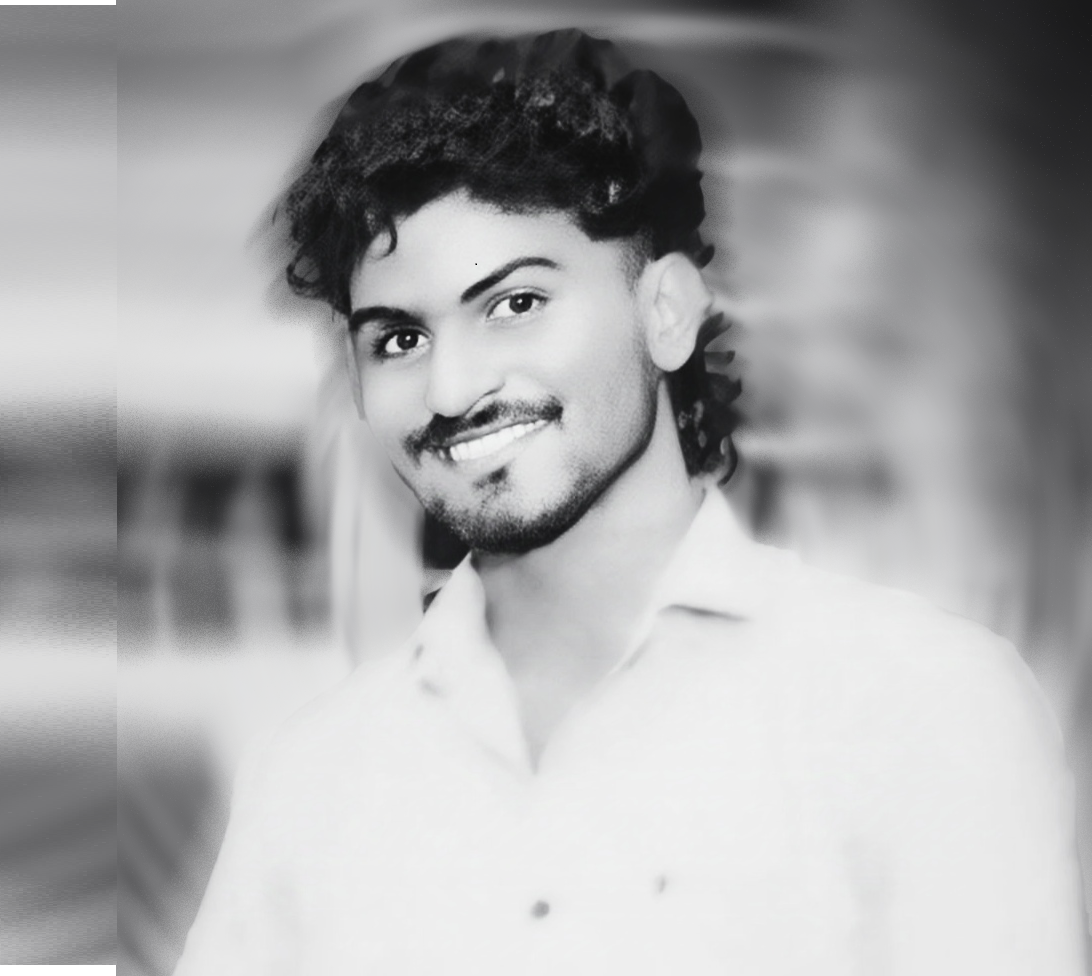
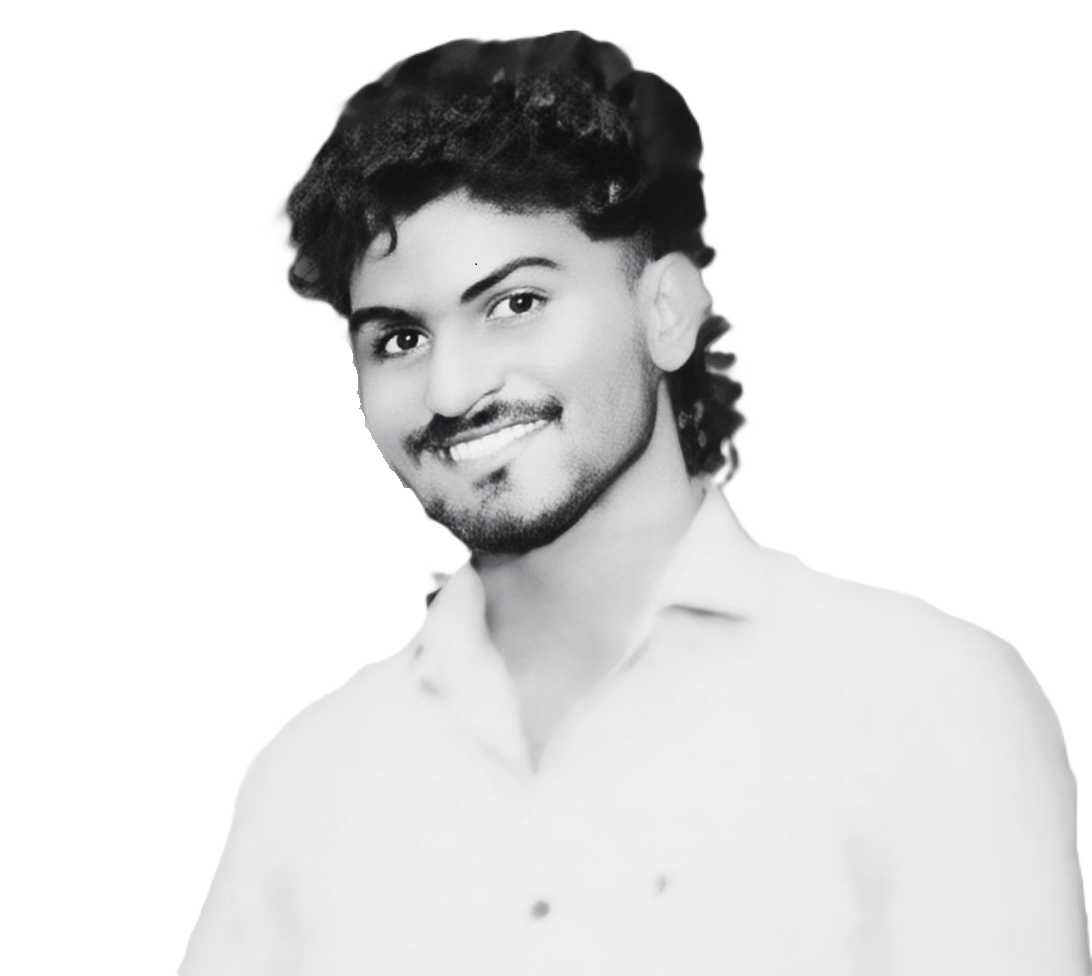
new images

diff --git a/components/Hero.tsx b/components/Hero.tsx
@@ -367,7 +367,7 @@ export default function Hero() {
                     }}
                   >
                     <Image
-                      src="/images/avatar1.png"
+                      src="/images/grammers.gif"
                       alt="Immanuvel"
                       fill
                       sizes="(max-width: 768px) 100vw, 50vw"
